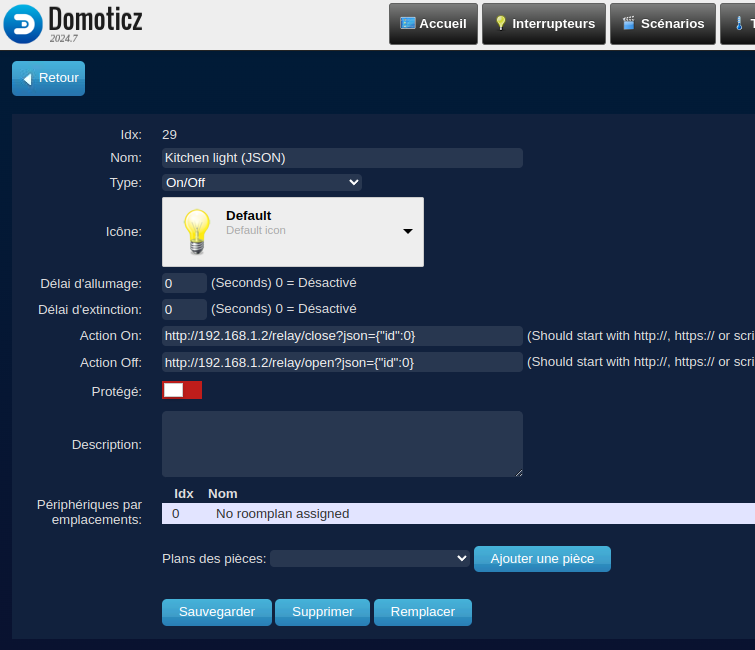
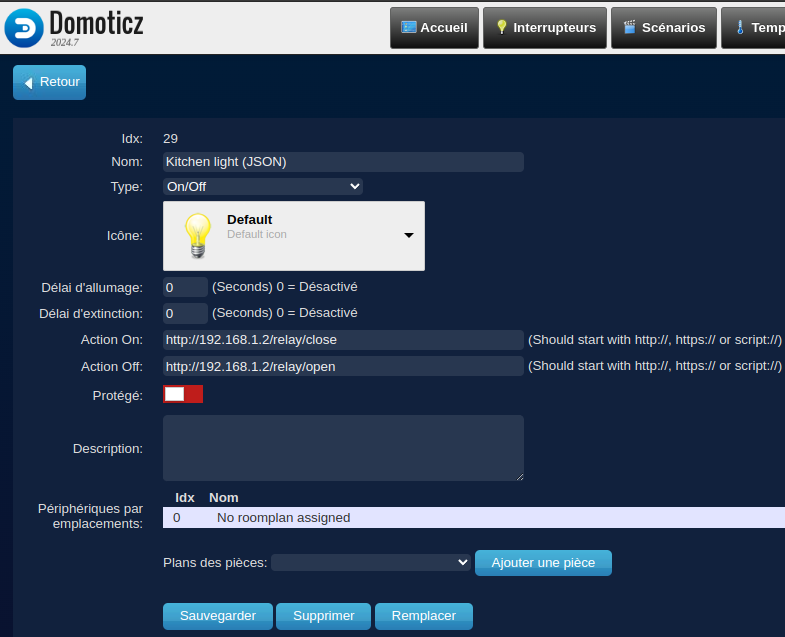
Update Readme.md, DomoticzOpenCloseRelay.png, and FirefoxCloseRelay.png

diff --git a/examples/RelayRemoteControl/Readme.md b/examples/RelayRemoteControl/Readme.md
@@ -19,8 +19,8 @@ certain times of the day ("Heures creuses"). For this I wrote a lua script in Do
 
 ## JSON requests
 
-* Turn off the light :  http://[IP address of the Esp8266]/relay/open?json={"id":0}
-* Turn on the light  :  http://[IP address of the Esp8266]/relay/close?json={"id":0}
+* Turn off the light :  http://[IP address of the Esp8266]/relay/open
+* Turn on the light  :  http://[IP address of the Esp8266]/relay/close
 
 ## JSON request in Mozilla Firefox 
 
